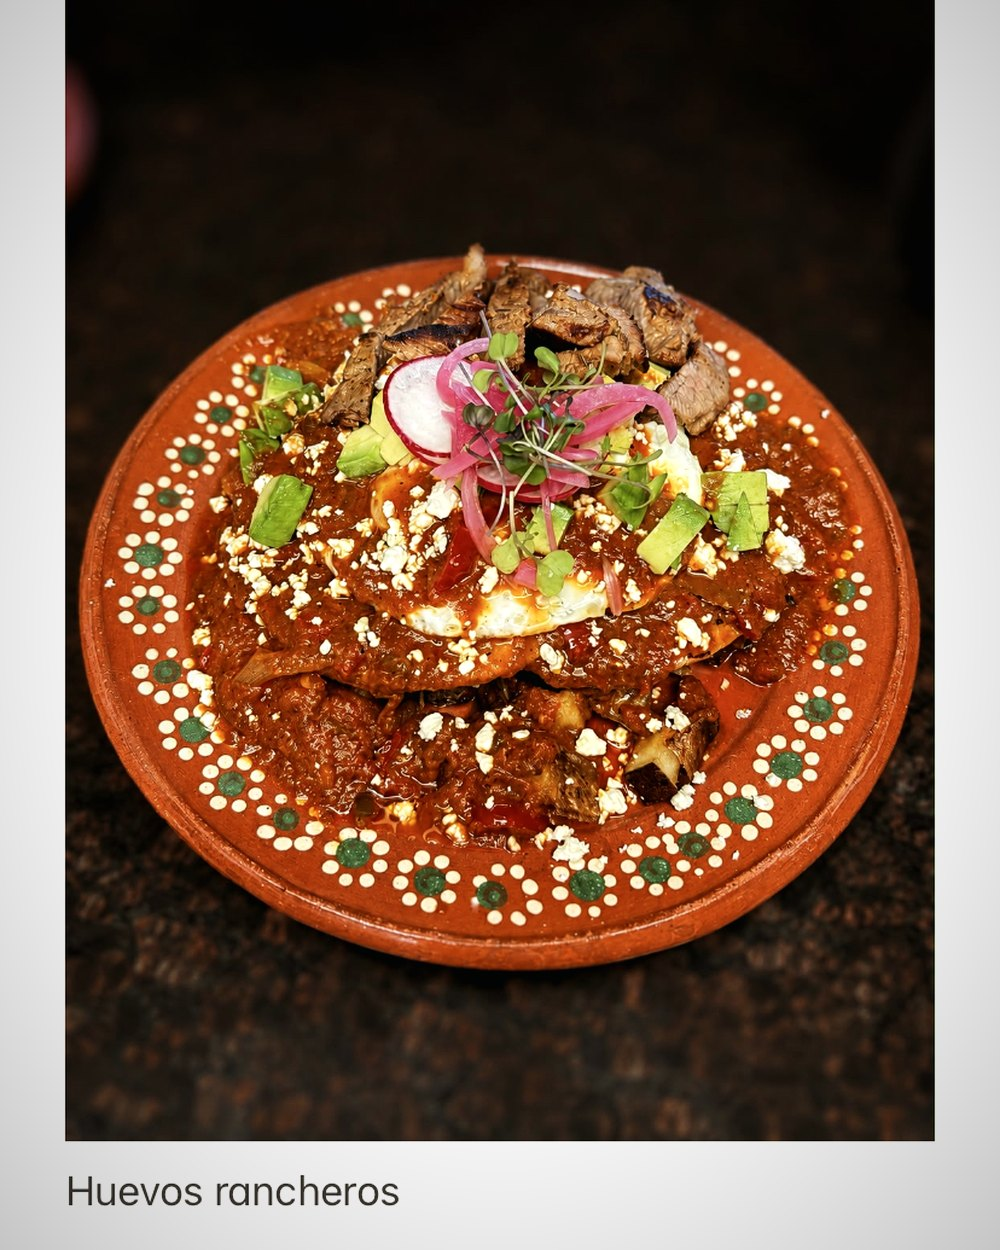
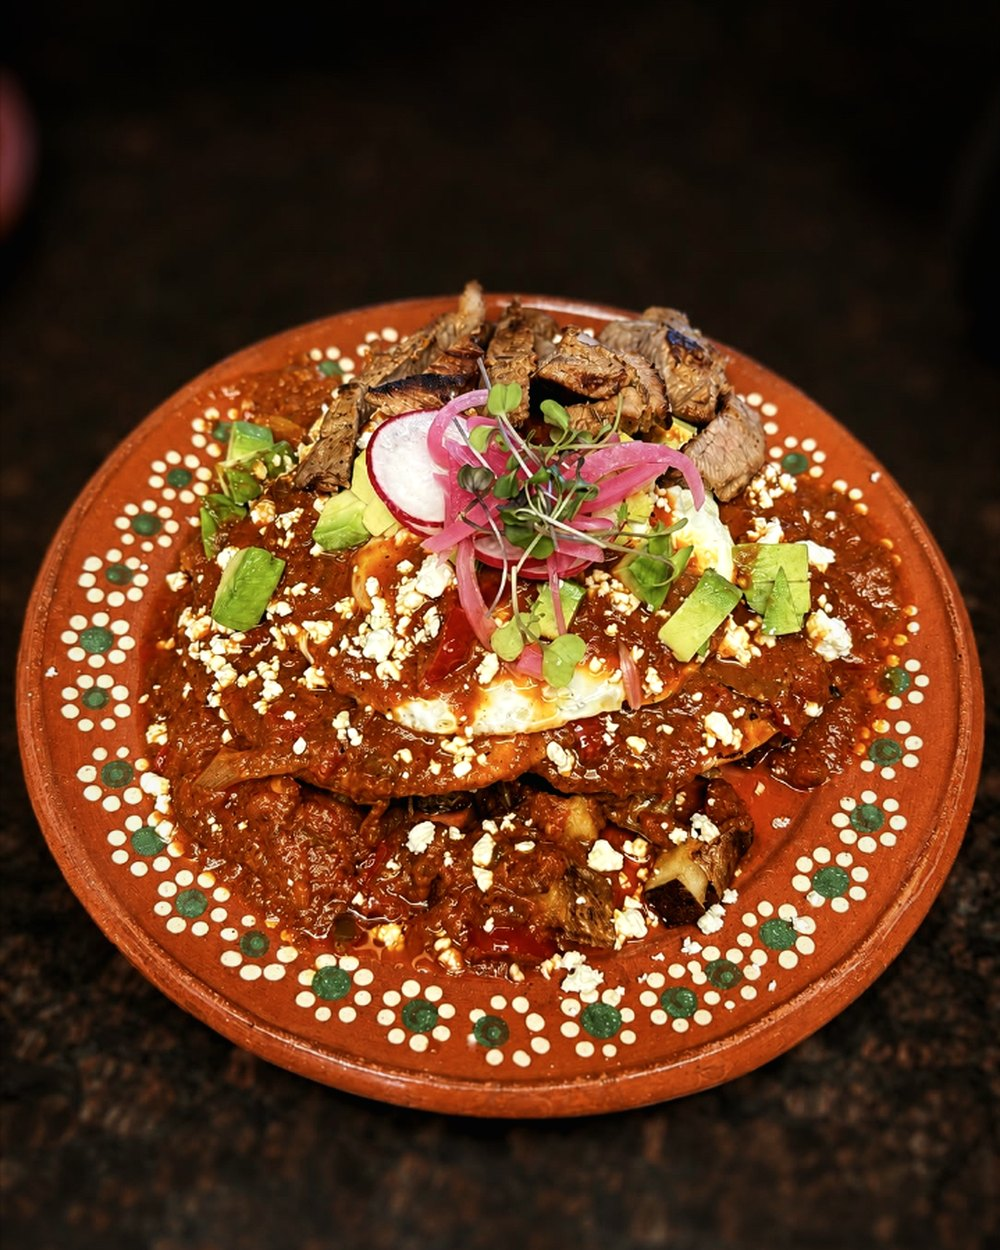
Recortar marco blanco de las fotos de guacamole, ceviche y huevos rancheros

diff --git a/index.html b/index.html
@@ -16,7 +16,7 @@
 <link rel="preconnect" href="https://fonts.googleapis.com">
 <link rel="preconnect" href="https://fonts.gstatic.com" crossorigin>
 <link href="https://fonts.googleapis.com/css2?family=Bodoni+Moda:ital,opsz,wght@0,6..96,400..700;1,6..96,400..600&family=EB+Garamond:ital,wght@0,400..700;1,400..600&family=Jost:wght@300;400;500&display=swap" rel="stylesheet">
-<link rel="stylesheet" href="assets/css/style.css?v=20260908c">
+<link rel="stylesheet" href="assets/css/style.css?v=20260908d">
 
 <script type="application/ld+json">
 {
@@ -203,7 +203,7 @@
   </div>
 </aside>
 
-<script>window.ASSET_V="20260908c";</script>
-<script src="assets/js/app.js?v=20260908c"></script>
+<script>window.ASSET_V="20260908d";</script>
+<script src="assets/js/app.js?v=20260908d"></script>
 </body>
 </html>
